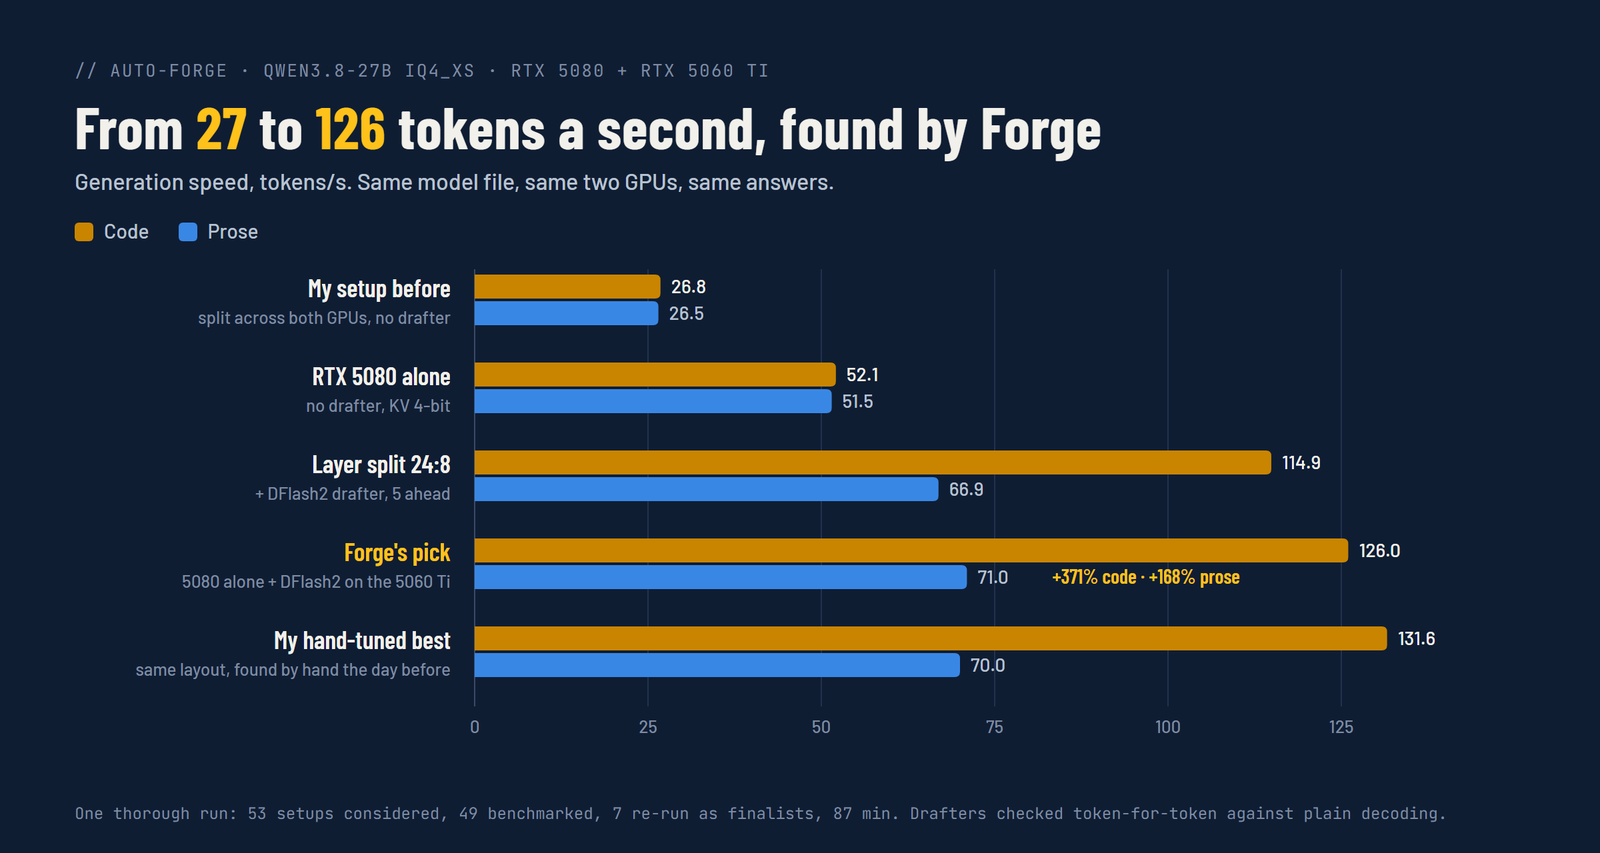
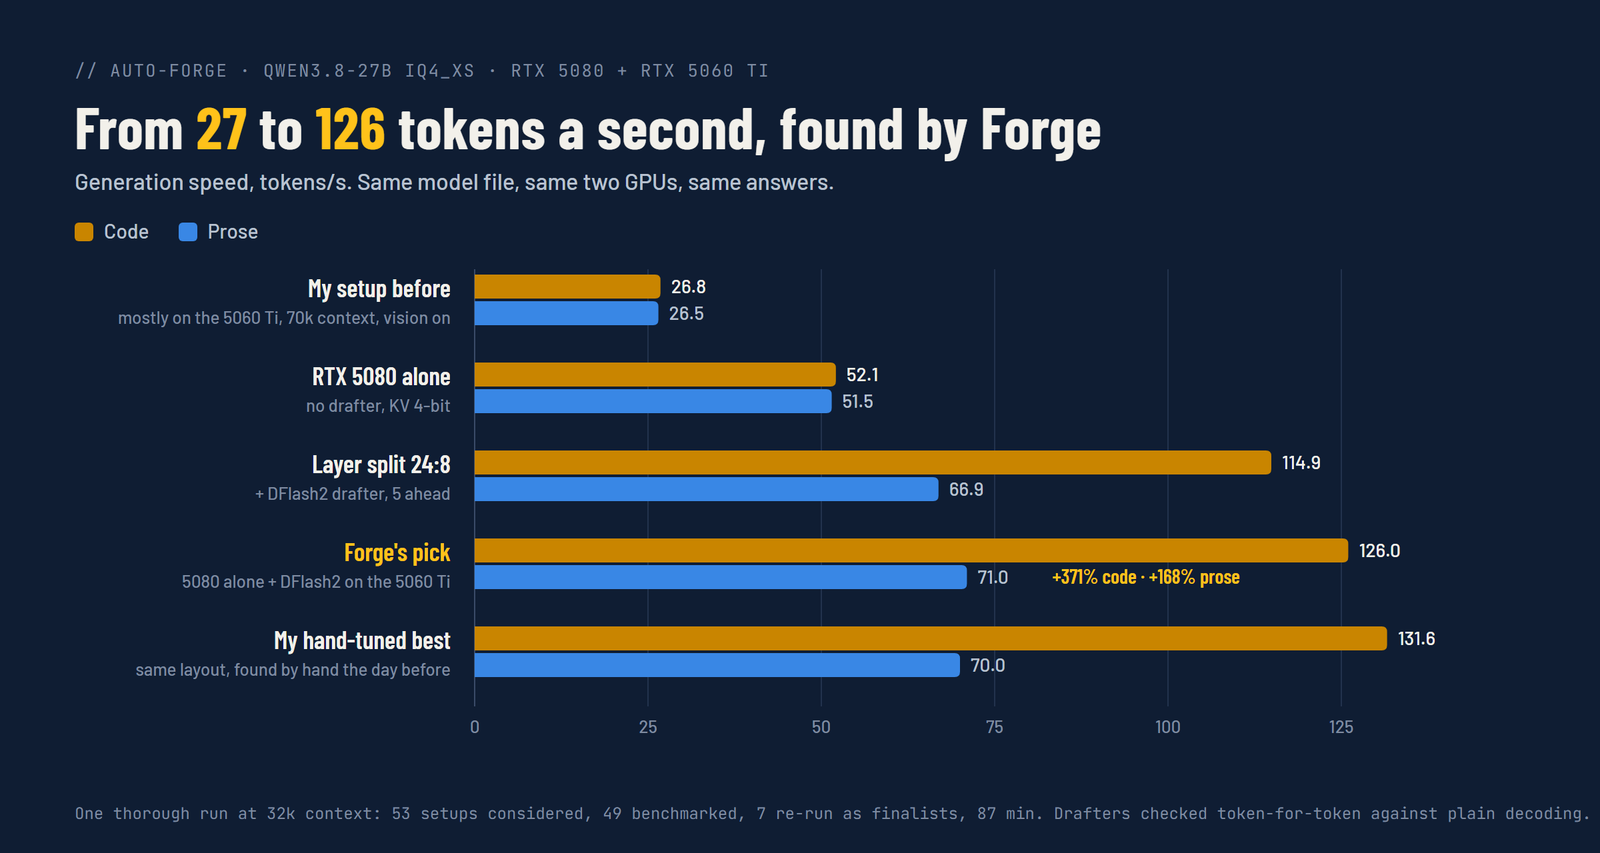
docs: correct the Auto-Forge baseline (old setup ran mostly on the 5060 Ti at 70k)

Changed region(s): [[0.1562, 0.9449, 1.0, 0.9754], [0.0625, 0.3658, 0.2812, 0.3962]]

diff --git a/docs/content/whats-new.md b/docs/content/whats-new.md
@@ -10,7 +10,7 @@ This page summarizes the most recent additions to LlamaForge. Each entry links t
 
 ## v0.17.0: Auto-Forge, Claude Code on a folder
 
-- **Auto-Forge.** Finds the fastest way to run a model on your GPUs by measuring it, not guessing. In a private sandbox it tries GPU placements, KV cache types and speculative drafters (DFlash, MTP) at the context you ask for, benchmarks code, prose and prompt speed, and checks token for token that a drafter gives the same answers as the model without it. Pick what you use the model for (coding, chat, long documents, agents), quick or thorough, and optionally allow lossy KV or try without the vision projector. **Apply** writes only what it changed into `models.ini`; **Undo** puts your values back. On a Qwen3.8-27B with an RTX 5080 and an RTX 5060 Ti it went from 26.8 to 126.0 tokens/s on code and from 26.5 to 71.0 on prose (one machine, one model). NVIDIA only, and new. See [Auto-Forge](autoforge.md). API: `/api/forge/status`, `/api/forge/start`, `/api/forge/cancel`, `/api/forge/apply`, `/api/forge/undo`.
+- **Auto-Forge.** Finds the fastest way to run a model on your GPUs by measuring it, not guessing. In a private sandbox it tries GPU placements, KV cache types and speculative drafters (DFlash, MTP) at the context you ask for, benchmarks code, prose and prompt speed, and checks token for token that a drafter gives the same answers as the model without it. Pick what you use the model for (coding, chat, long documents, agents), quick or thorough, and optionally allow lossy KV or try without the vision projector. **Apply** writes only what it changed into `models.ini`; **Undo** puts your values back. On a Qwen3.8-27B with an RTX 5080 and an RTX 5060 Ti it went from 26.8 to 126.0 tokens/s on code and from 26.5 to 71.0 on prose. The old setup sat mostly on the slower card at 70k context, and Forge was asked for 32k; the 5080 alone without a drafter did 52.1 (one machine, one model). NVIDIA only, and new. See [Auto-Forge](autoforge.md). API: `/api/forge/status`, `/api/forge/start`, `/api/forge/cancel`, `/api/forge/apply`, `/api/forge/undo`.
 - **Claude Code on a folder, one click.** A **Claude Code** button on a loaded model checks that it's ready (CLI found, Anthropic endpoint on, context size, jinja, a small model for background requests), lets you pick a folder, and opens a terminal there running `claude` against the local model. The endpoint and key are set on that one process, so your other Claude Code sessions and `~/.claude/settings.json` are untouched, and an inherited cloud API key never reaches the local endpoint. See [API](api.md). API: `/api/claude/check`, `/api/claude/pick-folder`, `/api/claude/launch`.
 - **Fixes.** A metrics scrape on Stats and a slot read by Elastic VRAM never load a model any more. A router that can't start because its port is taken now says so, with a fix. Controls you could only click are keyboard buttons now, and inputs that only had a placeholder have labels. Python and JavaScript lint run in CI. The docs are also served as [llms.txt](https://dadwritestech.github.io/LlamaForge/llms.txt).
 

diff --git a/docs/content/autoforge.md b/docs/content/autoforge.md
@@ -12,13 +12,13 @@ Auto-Forge finds the fastest way to run one model on your GPUs, measured on your
 
 ## What it found here
 
-On Qwen3.8-27B (IQ4_XS) with an RTX 5080 and an RTX 5060 Ti on PCIe x4, my own setup split the model across both GPUs and ran at 26.8 tokens/s on code and 26.5 on prose. A thorough Auto-Forge run (coding, 32k context, vision allowed off) considered 53 setups, benchmarked 49 of them, re-ran 7 finalists and took 87 minutes. Its pick was:
+On Qwen3.8-27B (IQ4_XS) with an RTX 5080 and an RTX 5060 Ti on PCIe x4, my own setup ran the model almost entirely on the 5060 Ti (the slower card), with 70k context and vision on, at 26.8 tokens/s on code and 26.5 on prose. A thorough Auto-Forge run (coding, 32k context, vision allowed off) considered 53 setups, benchmarked 49 of them, re-ran 7 finalists and took 87 minutes. Its pick was:
 
 - the model on the 5080 alone,
 - a DFlash2 drafter on the 5060 Ti, drafting 5 tokens ahead,
 - 4-bit KV cache (what the setup already used), 32k context, no vision projector.
 
-That ran at **126.0 tokens/s on code and 71.0 on prose** (+371% and +168%). My best hand-tuned result, found the day before with the same layout, was 131.6 and 70.0. These are numbers from one machine and one model; your gains depend on your GPUs, the model and whether a drafter exists for it.
+That ran at **126.0 tokens/s on code and 71.0 on prose** (+371% and +168%). Part of that is simply the faster card: the 5080 alone without a drafter did 52.1 and 51.5, so the drafter roughly doubled code speed on top of that. Forge was asked for 32k context; my old setup kept 70k. My best hand-tuned result, found the day before with the same layout, was 131.6 and 70.0. These are numbers from one machine and one model; your gains depend on your GPUs, the model and whether a drafter exists for it.
 
 ## Using it
 

diff --git a/README.md b/README.md
@@ -68,7 +68,7 @@ every server flag instead of a curated subset.
   - Presets, launch profiles (model + preset + pinned llama.cpp build in one click), side-by-side compare, and copy-paste client snippets.
   - **Game mode** unloads your models when a game starts and loads them again when it closes; pick any to keep loaded.
   - **Elastic VRAM** (off by default; NVIDIA): when another app needs the GPU, a loaded model moves layers to the CPU instead of unloading, keeps its conversation, and moves back once the memory is free. Slower while it's shrunk.
-  - **Auto-Forge** (new in v0.17.0; NVIDIA): finds the fastest way to run a model on your GPUs by measuring it. It tries placements, KV cache types and speculative drafters in a sandbox, checks that a drafter gives the same answers, and applies the winner to `models.ini` with one-click Undo. Here it took a Qwen3.8-27B from 26.8 to 126.0 tokens/s on code. [How it works](docs/content/autoforge.md).
+  - **Auto-Forge** (new in v0.17.0; NVIDIA): finds the fastest way to run a model on your GPUs by measuring it. It tries placements, KV cache types and speculative drafters in a sandbox, checks that a drafter gives the same answers, and applies the winner to `models.ini` with one-click Undo. Here it took a Qwen3.8-27B from 26.8 tokens/s on code (mostly on the slower GPU) to 126.0, and to 2.4x the best plain setup. [How it works](docs/content/autoforge.md).
 
     ![Auto-Forge: from 27 to 126 tokens a second](docs/content/img/forge-speed.png)
 
